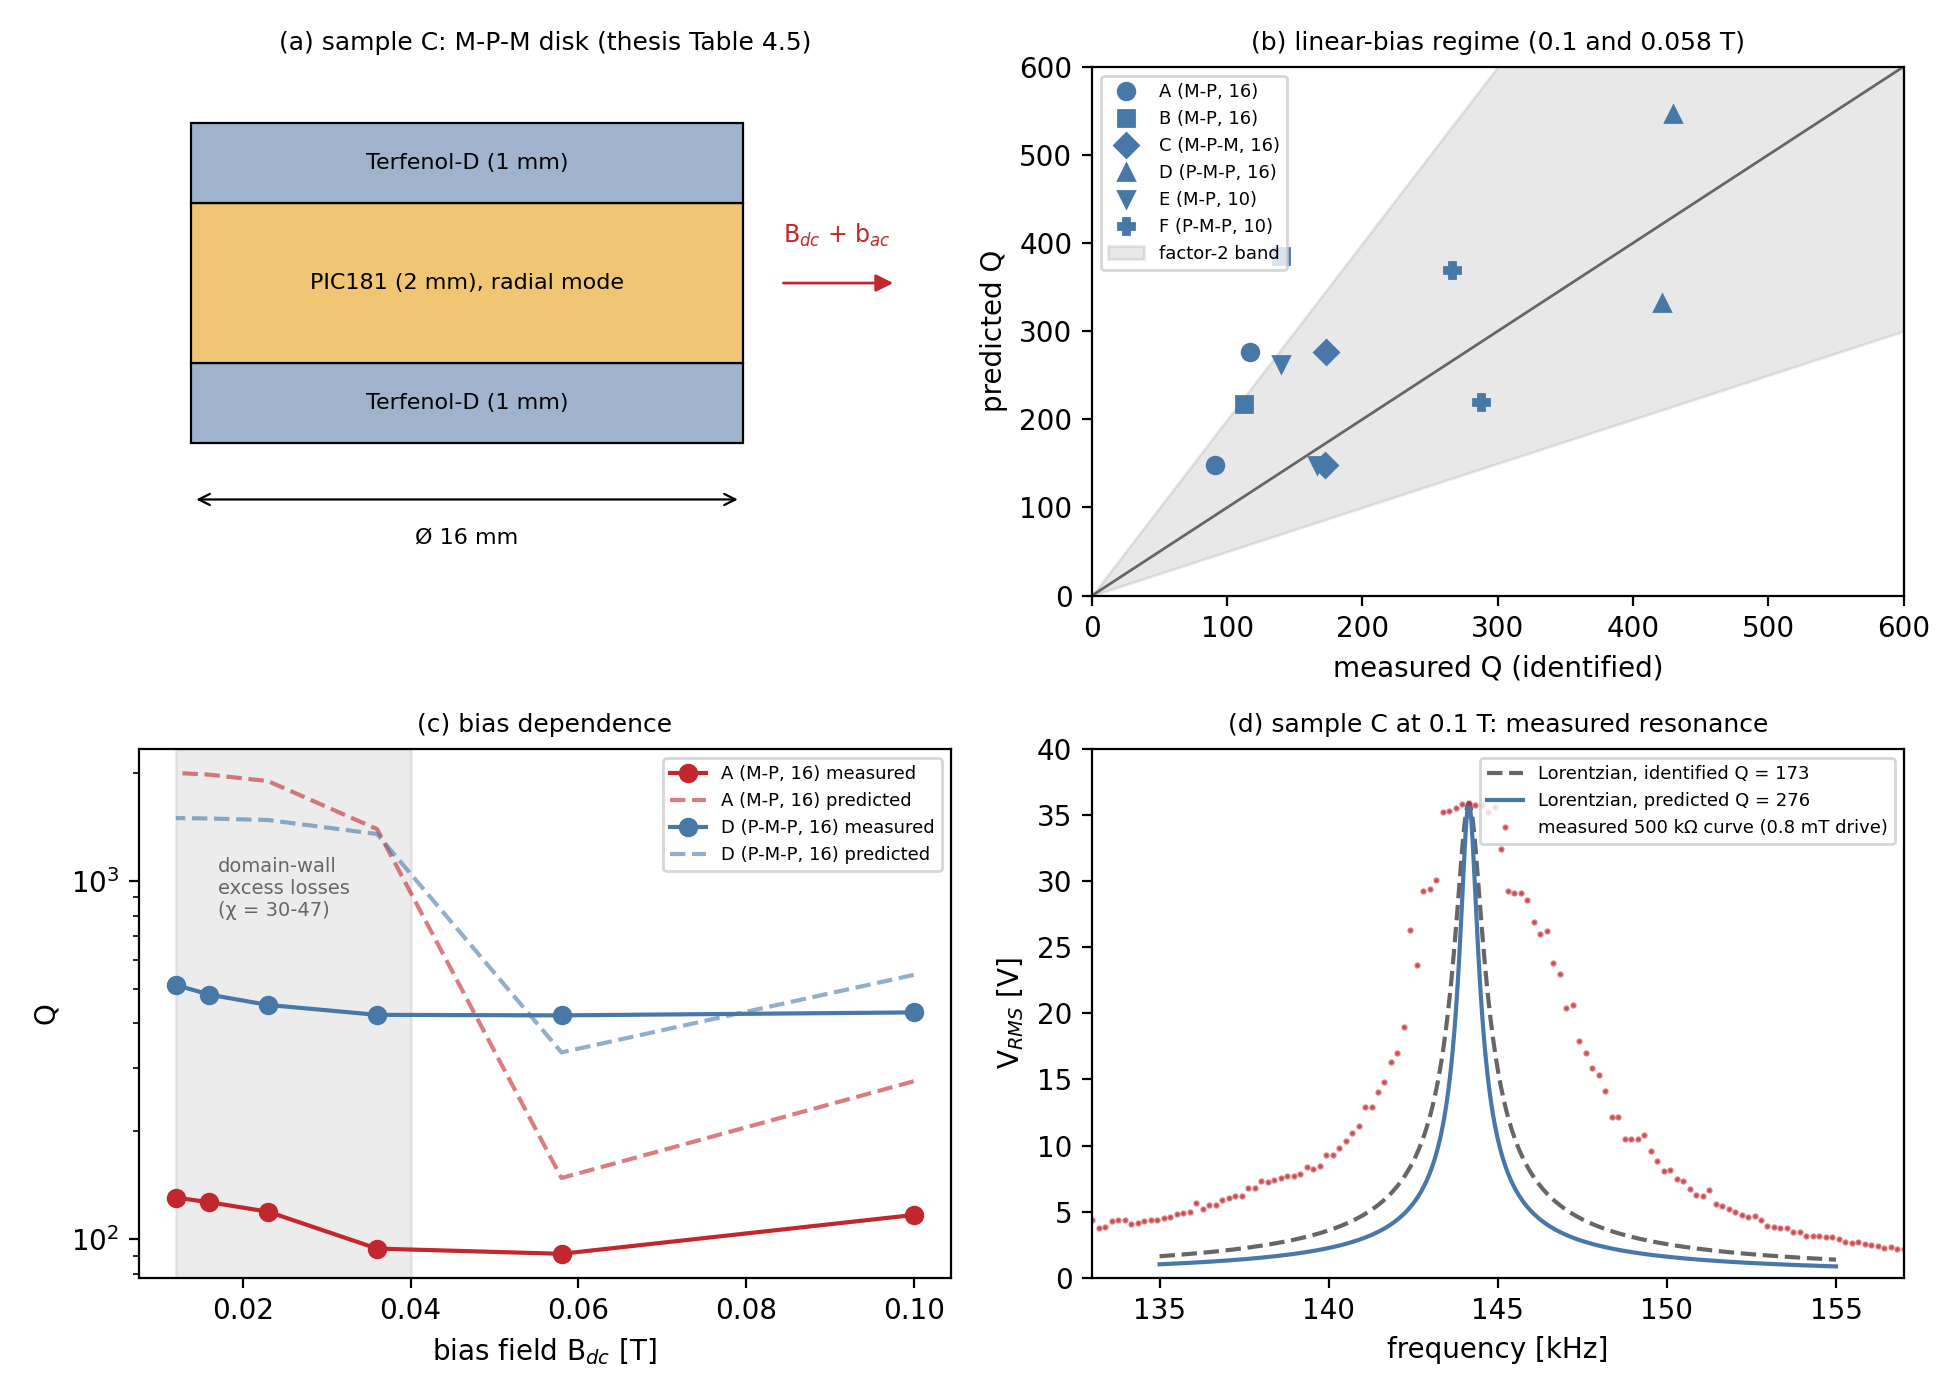
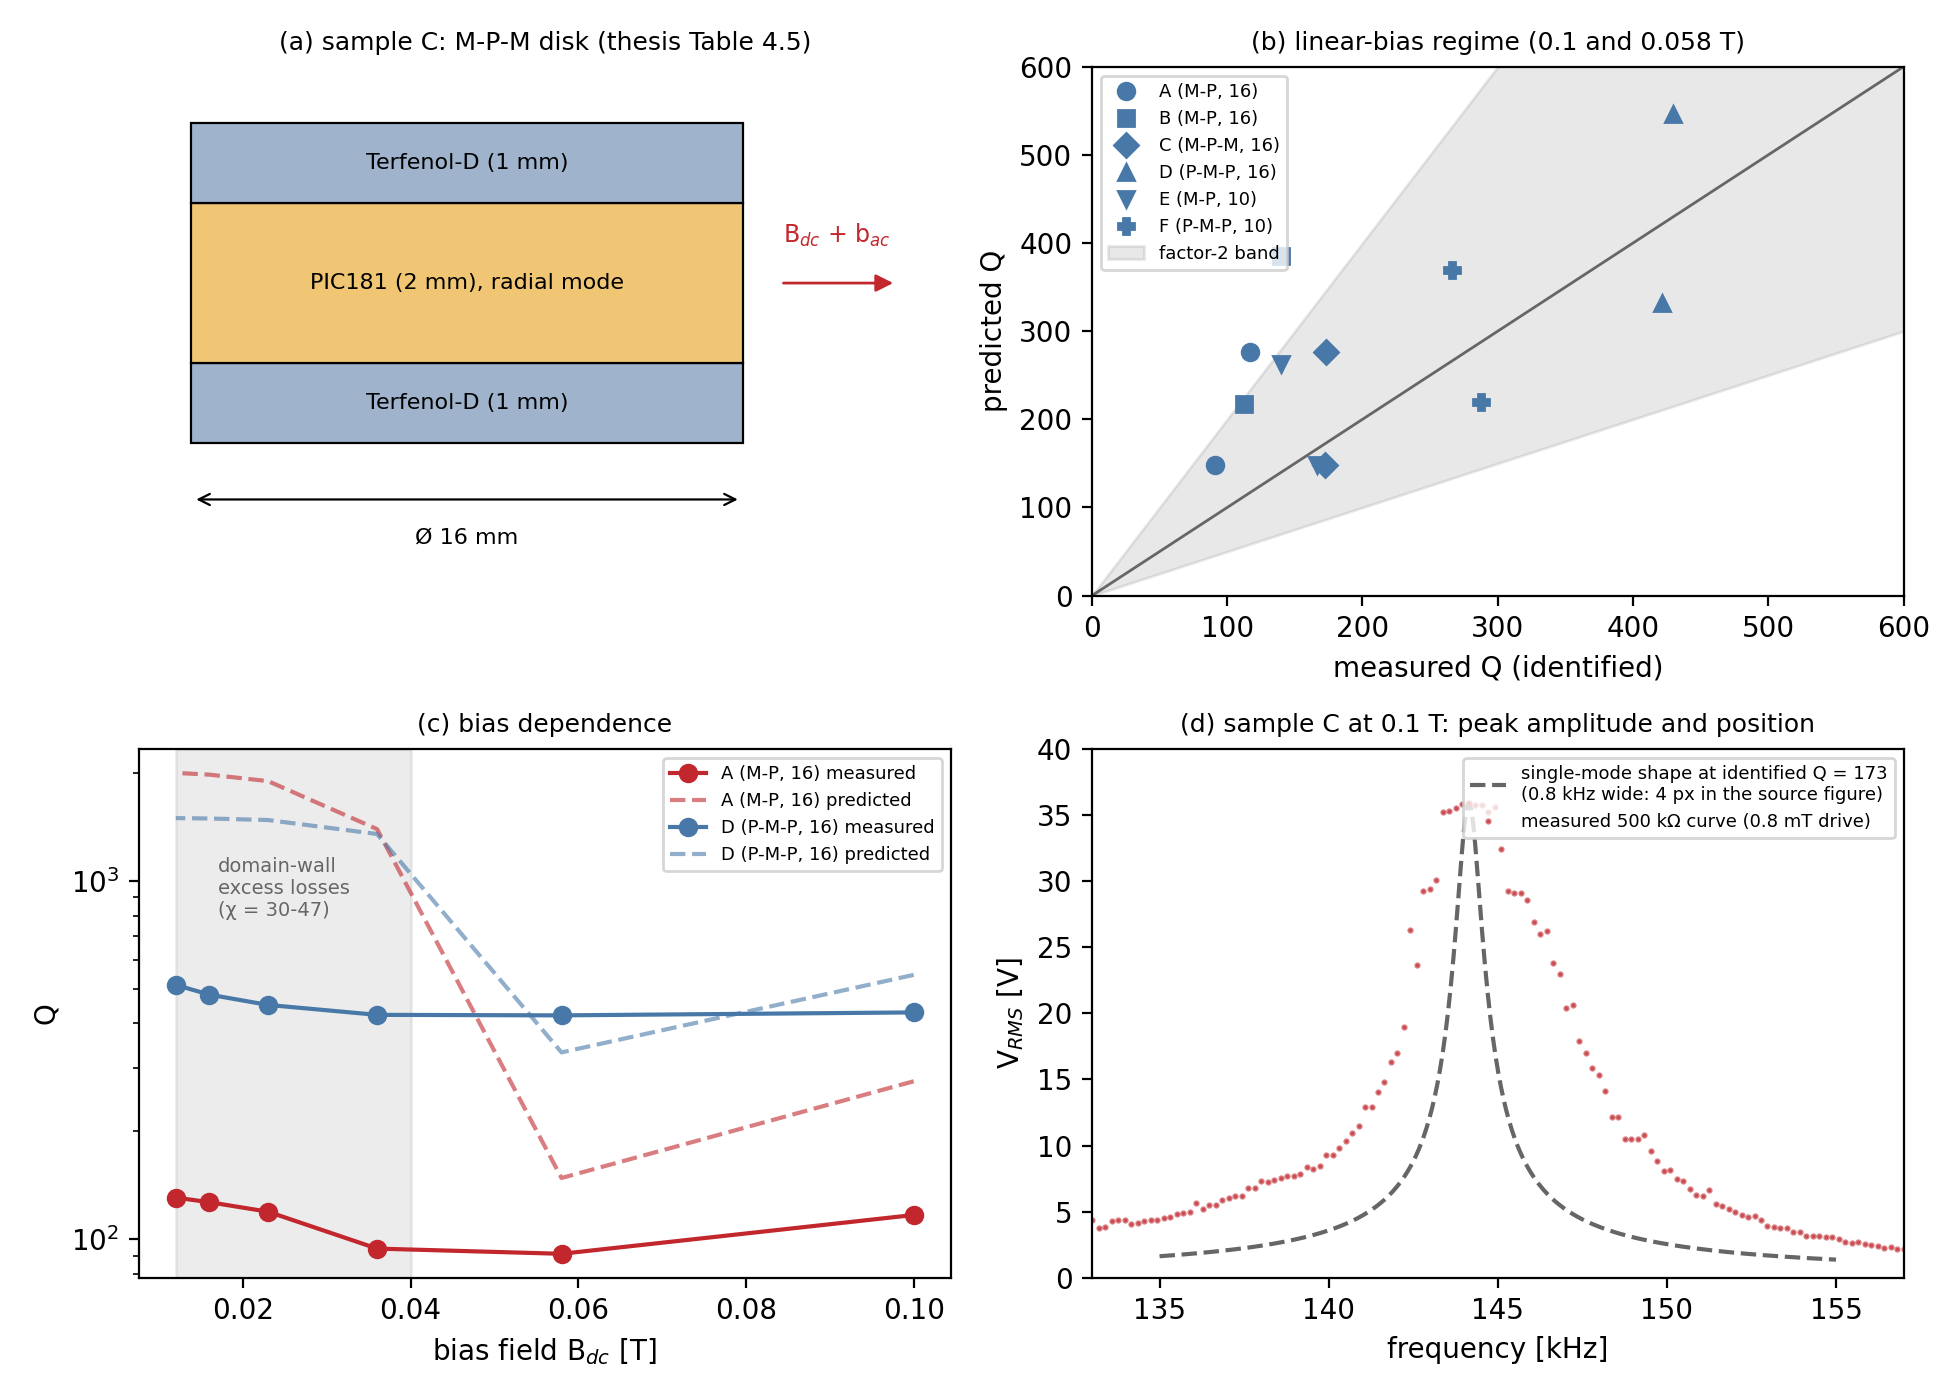
Panel 7(d): honest reframing as amplitude/position check
The source-figure resolution (0.19 kHz/px; a Q=173 peak spans ~4 px)
makes the digitized linewidth an upper bound only: Q comparisons rest on
the identified circuit parameters, and the earlier apparent-Q claim is
withdrawn.

diff --git a/run_disk_transfer.py b/run_disk_transfer.py
@@ -100,15 +100,16 @@ uniquement dans ce régime.""")
     ipk = int(np.argmax(vmc))
     fpk, vpk = fmc[ipk], vmc[ipk]
     fl = np.linspace(135, 155, 500)
-    for Qv, col, lab in ((173, GREY, "Lorentzian, identified Q = 173"),
-                         (276, BLUE, "Lorentzian, predicted Q = 276")):
-        a3.plot(fl, vpk / np.sqrt(1 + (2 * Qv * (fl - fpk) / fpk)**2),
-                "-" if col == BLUE else "--", color=col, label=lab)
+    a3.plot(fl, vpk / np.sqrt(1 + (2 * 173 * (fl - fpk) / fpk)**2),
+            "--", color=GREY,
+            label="single-mode shape at identified Q = 173\n"
+                  "(0.8 kHz wide: 4 px in the source figure)")
     a3.plot(fmc, vmc, ".", color=RED, ms=2.5, alpha=0.6,
             label="measured 500 kΩ curve (0.8 mT drive)")
     a3.set_xlim(133, 157); a3.set_ylim(0, 40)
     a3.set_xlabel("frequency [kHz]"); a3.set_ylabel("V$_{RMS}$ [V]")
-    a3.set_title("(d) sample C at 0.1 T: measured resonance", fontsize=9)
+    a3.set_title("(d) sample C at 0.1 T: peak amplitude and position",
+                 fontsize=9)
     a3.legend(fontsize=6.5, loc="upper right")
 
     fig.tight_layout()
